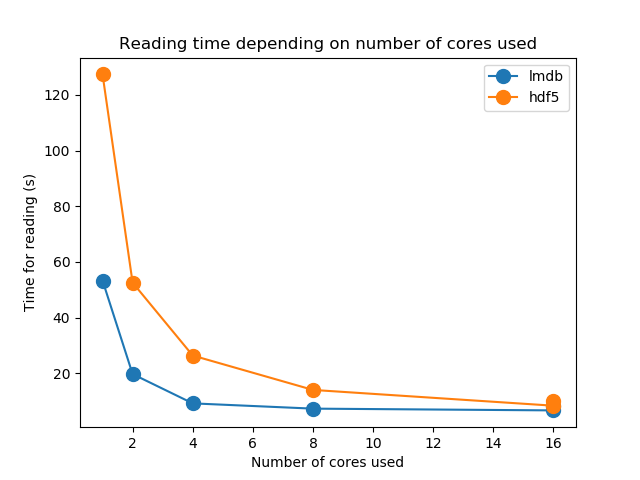
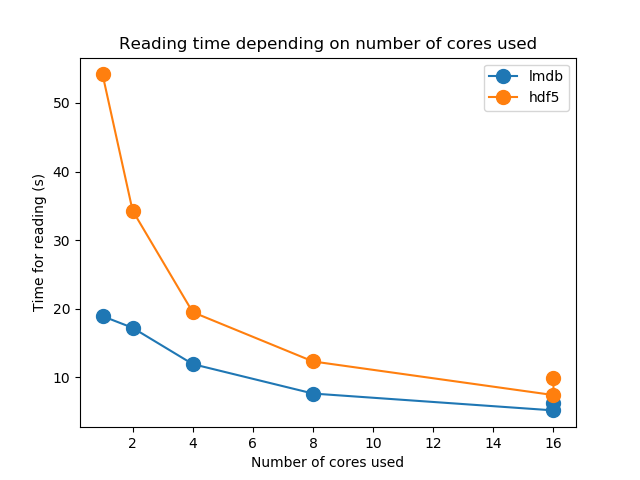
parallel test, using chunks

diff --git a/TextImages/read_benchmarks/read_parallel.py b/TextImages/read_benchmarks/read_parallel.py
@@ -1,4 +1,4 @@
-#srun --ntasks-per-node=16 --nodes 1 --mem=10GB -t1:00:00 --pty /bin/bash
+#srun --ntasks-per-node=16 --nodes 1 --mem=20GB -t1:00:00 --pty /bin/bash
 
 from joblib import Parallel, delayed, parallel_backend
 import numpy as np
@@ -13,7 +13,7 @@ import os
 import random
 import h5py
 import matplotlib.pyplot as plt
-
+import math
 
 
 ######################################################  Correct affinity
@@ -23,23 +23,6 @@ import os; os.sched_getaffinity(0)
 os.system("taskset -p 0xFFFFFFFF %d" % os.getpid())
 # check
 os.sched_getaffinity(0)
-
-#############################################################
-read sqlite files and get all keys
-print("---reading sqlite for lmdb")
-######################## sqlite file - for lmdb
-with sqlite3.connect("/scratch/work/public/datasets/TextRecognitionData_VGG_Oxford/lmdb/TextImages.sqlite") as sql_conn:
-   df = pd.read_sql_query("select * from meta;", sql_conn)
-   all_keys = df['key'].tolist()
-
-## let say we want to get first image
-# key = all_keys[0]
-
-print("---reading sqlite for hdf5")
-####################### hdf5 sqlite file
-with sqlite3.connect("/scratch/work/public/datasets/TextRecognitionData_VGG_Oxford/hdf5/TextImages-hdf5.sqlite") as sql_conn:
-   df_hdf5 = pd.read_sql_query("select * from meta;", sql_conn)
-   all_keys_hdf5 = df_hdf5['key'].tolist()
 
 #############################################################
 #############################################################
@@ -58,40 +41,60 @@ N_to_read = int(1e5)
 key_list = [f"{i:07}" for i in list(range(1, N_to_read+1))]
 lmdb_path = "/scratch/work/public/datasets/TextRecognitionData_VGG_Oxford/lmdb/TextImages.lmdb"
 
-def read_fig_lmdb(key):
+## we open env in every process. Opening it for every key is slow - thus pass chunk of keys 
+def read_fig_lmdb(key_sublist):
+  ret_ar = []
   #print("process id:" + str(os.getpid()))
   with lmdb.open(lmdb_path, readonly=True, lock=False) as env:
     with env.begin() as lmdb_txn:
-      #print(key)
-      stored_image = lmdb_txn.get(key.encode())
-      #print(data)
-      PIL_image = Image.open(io.BytesIO(stored_image))
-      return(np.asarray(PIL_image))
+      for key in key_sublist:
+        #print(key)
+        stored_image = lmdb_txn.get(key.encode())
+        PIL_image = Image.open(io.BytesIO(stored_image))
+        ret_ar.append(np.asarray(PIL_image))
+  return(ret_ar)
 
 
 for cpus_number in cpus_options:
+    ## split key_list to chunks
+    n = math.ceil(len(key_list)/cpus_number)
+    key_list_chunks = [key_list[i:i + n] for i in range(0, len(key_list), n)]     
     tic = time.time()
-    res = Parallel(n_jobs=cpus_number, prefer = "processes", verbose=5)(delayed(read_fig_lmdb)(key) for key in key_list)
+    res = Parallel(n_jobs=cpus_number, prefer = "processes", verbose=5)(delayed(read_fig_lmdb)(key_sublist) for key_sublist in key_list_chunks)
     toc = time.time()
     timing_dict["lmdb"].append(toc-tic)
+
+flattened = [val for sublist in res for val in sublist]
+#flattened
+
     
 ######################################################### HDF5
+hdf5_path = '/scratch/work/public/datasets/TextRecognitionData_VGG_Oxford/hdf5/TextImages.hdf5'
 
-def read_fig_hdf5(key):
-    with h5py.File('/scratch/work/public/datasets/TextRecognitionData_VGG_Oxford/hdf5/TextImages.hdf5', 'r') as f:
-        dset = f['images']
-        stored_image = dset[key]
-        #print(data)
-        PIL_image = Image.open(io.BytesIO(stored_image))
-        return(np.asarray(PIL_image))
+def read_fig_hdf5(key_sublist):
+  ret_ar = []
+  with h5py.File(hdf5_path, 'r') as f:
+    for key in key_sublist:
+      dset = f['images']
+      stored_image = dset[key]
+      #print(data)
+      PIL_image = Image.open(io.BytesIO(stored_image))
+      ret_ar.append(np.asarray(PIL_image))
+  return(ret_ar)
 
 
-key_list = list(range(int(N_to_read)))
+key_list_hdf5 = list(range(int(N_to_read)))
 for cpus_number in cpus_options:
+    ## split key_list to chunks
+    n = math.ceil(len(key_list_hdf5)/cpus_number)
+    key_list_chunks = [key_list_hdf5[i:i + n] for i in range(0, len(key_list_hdf5), n)]     
     tic = time.time()
-    res = Parallel(n_jobs=cpus_number, prefer = "processes", verbose=5)(delayed(read_fig_hdf5)(key) for key in key_list)
+    res = Parallel(n_jobs=cpus_number, prefer = "processes", verbose=5)(delayed(read_fig_hdf5)(key_sublist) for key_sublist in key_list_chunks)
     toc = time.time()
     timing_dict["hdf5"].append(toc-tic)
+
+flattened = [val for sublist in res for val in sublist]
+
 
 #######################################################
 import sys

diff --git a/TextImages/read_benchmarks/README.md b/TextImages/read_benchmarks/README.md
@@ -56,7 +56,7 @@ Random access
 Sequential access, parallel
 
 
-{'lmdb': [8.188268661499023, 6.681662321090698, 7.315214395523071, 9.205011129379272, 19.72301483154297, 53.31443953514099], 'hdf5': [9.885218381881714, 8.368305444717407, 14.035101175308228, 26.379358768463135, 52.55325126647949, 127.3263726234436], 'cpus_options': [16, 16, 8, 4, 2, 1]}
+{'lmdb': [6.325052738189697, 5.198148488998413, 7.6550891399383545, 11.946351766586304, 17.232758045196533, 18.931683778762817], 'hdf5': [9.953233003616333, 7.430699825286865, 12.333068609237671, 19.512855291366577, 34.31105184555054, 54.162779331207275], 'cpus_options': [16, 16, 8, 4, 2, 1]}
 
 ![Random_read_plot](read_parallel.png)
 
